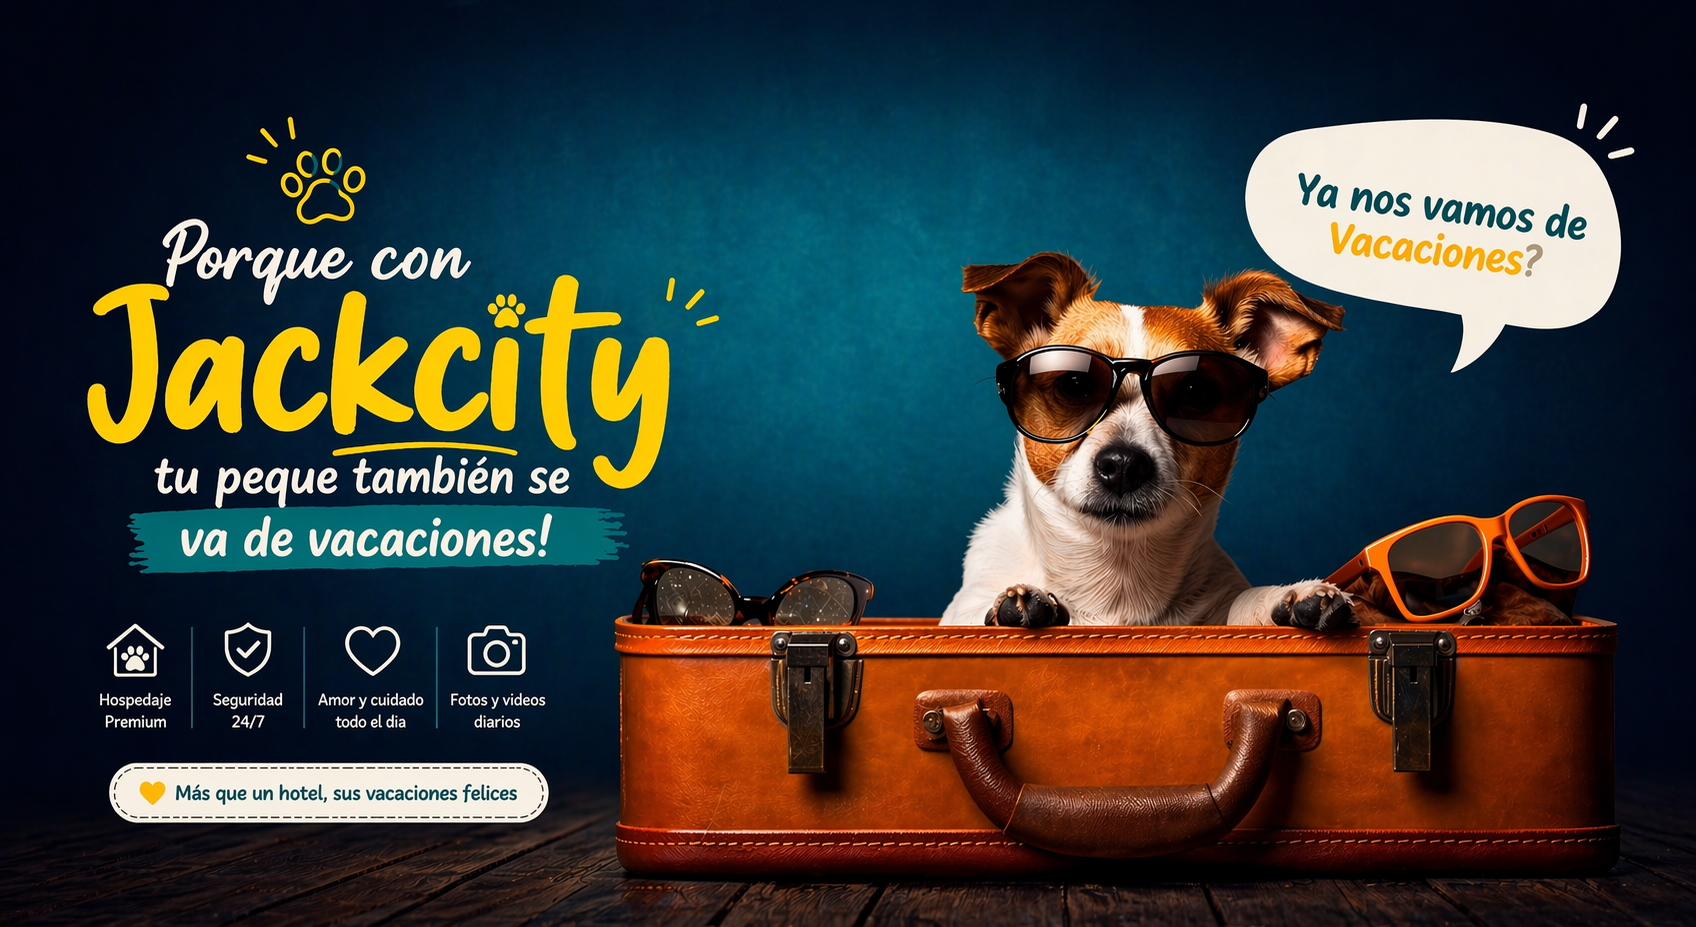
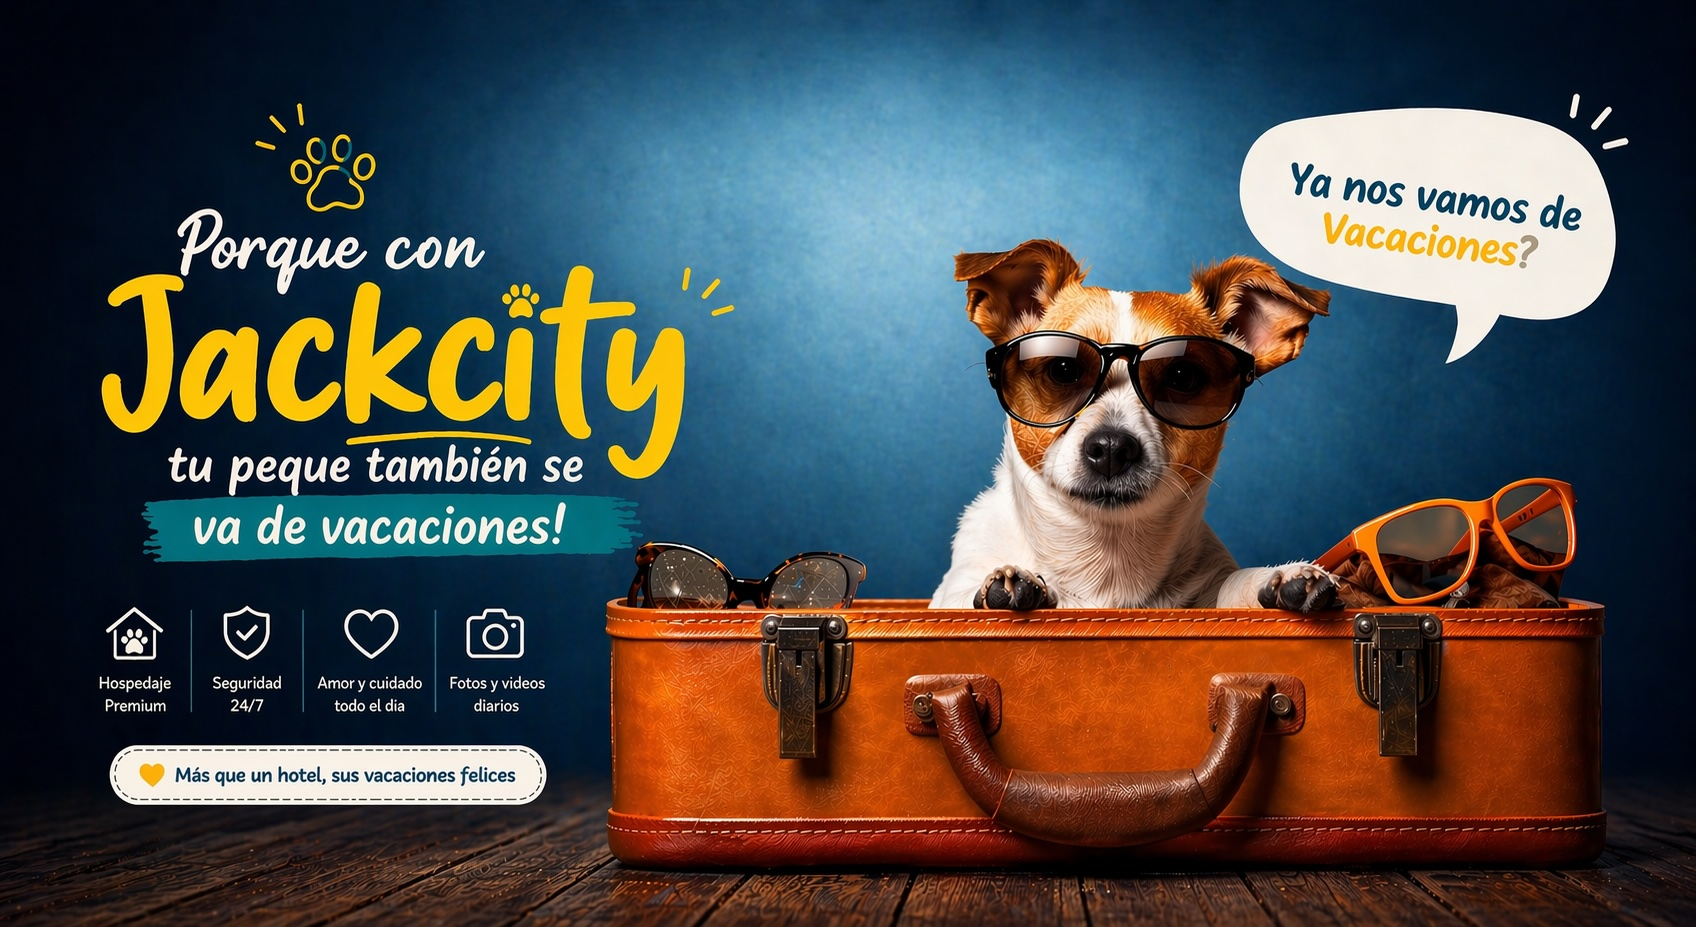
Adjust mobile hero image ratio

diff --git a/components/hero-header.tsx b/components/hero-header.tsx
@@ -6,12 +6,19 @@ export function HeroHeader() {
   return (
     <header className="w-full">
       <div className="flex items-center justify-center">
-        <div className="relative w-full max-w-[1200px] aspect-[1695/794] overflow-hidden">
+        <div className="relative w-full max-w-[1200px] aspect-[1101/1429] overflow-hidden md:aspect-[1695/794]">
+          <Image
+            src="/images/hero-bg-mobile.jpg"
+            alt="Hotel JackCity"
+            fill
+            className="object-cover object-center md:hidden"
+            priority
+          />
           <Image
             src="/images/hero-bg.jpg"
-            alt="Hotel Petstay"
+            alt="Hotel JackCity"
             fill
-            className="object-cover object-center"
+            className="hidden object-cover object-center md:block"
             priority
           />
         </div>

diff --git a/components/search-bar.tsx b/components/search-bar.tsx
@@ -22,7 +22,7 @@ export function SearchBar() {
   const accentOutline = "#D9723040"
   const fieldIconColor = "rgb(0 6 255)"
 
-  const cardColor = "#FFE600"
+  const cardColor =   "#ffcc02" // "#FFC857"  //"#e9d62c"
   const inputColor = "#FFF9F2"
   const inputBorder = "#D9C7AE"
   const labelColor = "#0A1830"
